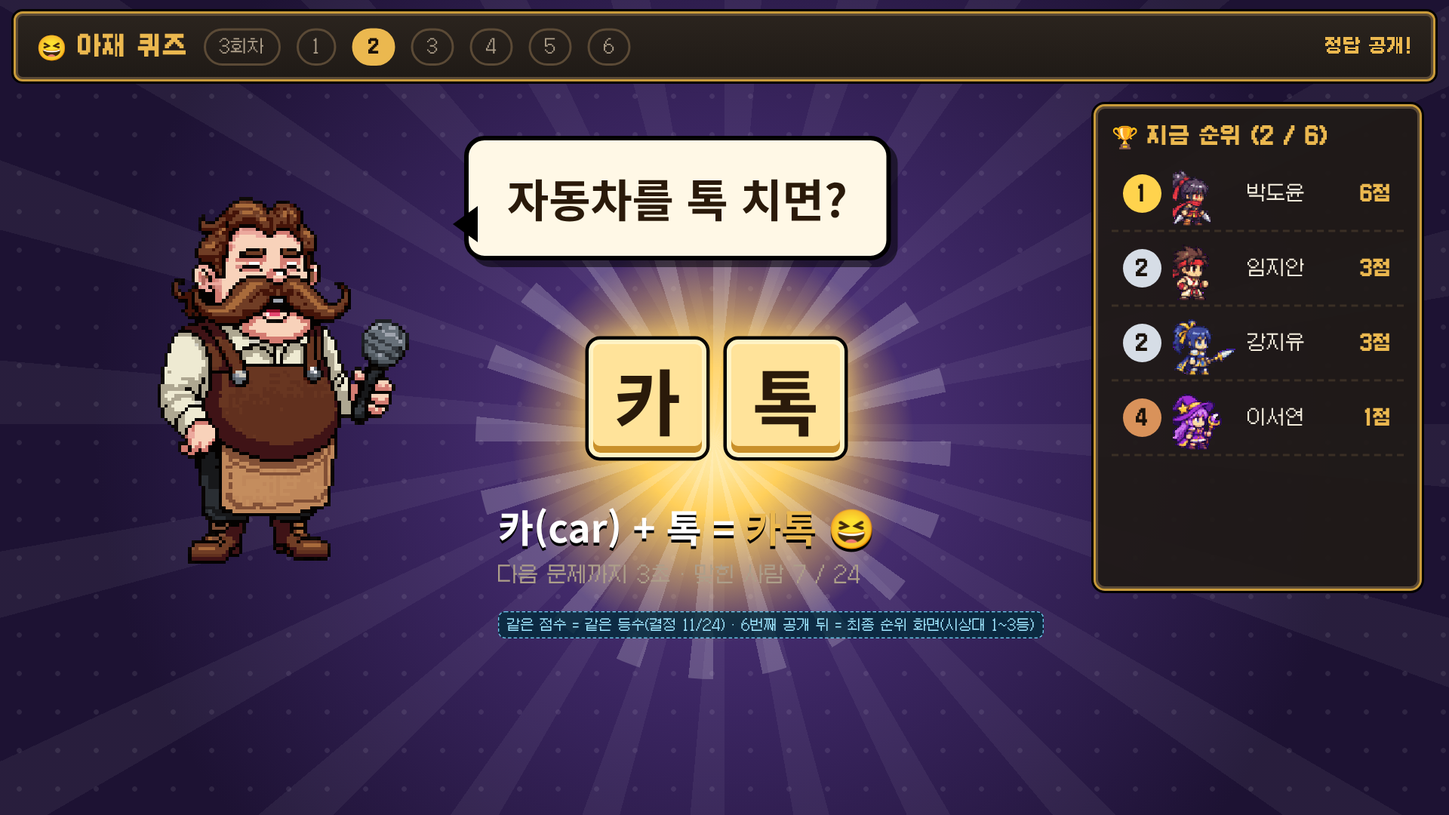
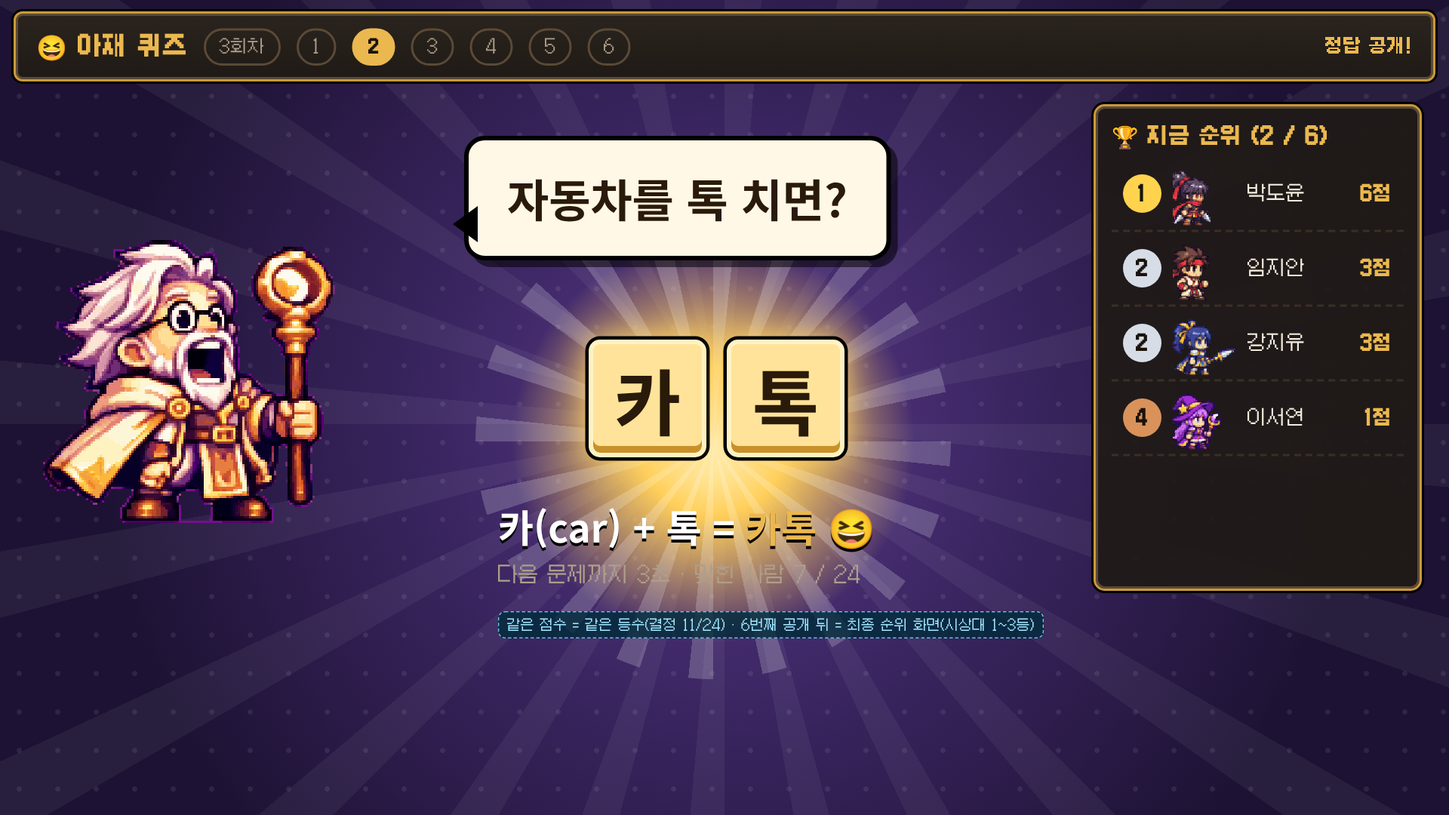
🎨 쉼터 놀이 시안 v2: 진행자 = 현자(PixelLab 동작 3줄) · 알까기 판 · 알 크게 + 이름 · 폰 따라가기 창 + 확대 · 새 값 제안 (11/24)
Claude-Session: https://claude.ai/code/session_014JJv1ioE1uuu1uLzo26R9z

Changed region(s): [[0.0312, 0.2444, 0.2812, 0.7028]]

diff --git a/docs/handoff/minigame-mock/mock.html b/docs/handoff/minigame-mock/mock.html
@@ -92,7 +92,7 @@ S['ajae-tv-1'] = () => `<div class="screen tv"><div class="rays"></div><div clas
  <div class="topbar"><span class="t">😆 아재 퀴즈</span><span class="pill">3회차</span>
   ${[1,2,3,4,5,6].map(n=>`<span class="pill ${n===2?'on':''}">${n}</span>`).join('')}
   <span class="sp"></span><span style="color:var(--muted)">참가 24명</span><div class="ring" style="--p:56%;width:50px;height:50px;font-size:22px"><span>17</span></div></div>
- <img class="host" src="../assets/minigame/ajae-host-talk-v1.png" style="left:40px;top:150px;width:384px;height:384px">
+ <img class="host" src="sage-host-talk.png" style="left:-90px;top:190px;width:512px;height:288px">
  <div class="bubble" style="left:410px;top:150px;font-size:54px;">자동차를 톡 치면?</div>
  <div class="blanks" style="left:520px;top:330px"><div class="blank">?</div><div class="blank">?</div></div>
  <div style="position:absolute;left:430px;top:458px;color:var(--muted);font-size:18px">폰에서 글자를 골라 맞혀요 · 2글자</div>
@@ -115,7 +115,7 @@ S['ajae-tv-2'] = () => `<div class="screen tv"><div class="rays"></div><div clas
   ${[1,2,3,4,5,6].map(n=>`<span class="pill ${n===2?'on':''}">${n}</span>`).join('')}
   <span class="sp"></span><span style="color:var(--gold);font-weight:700">정답 공개!</span></div>
  <div class="burst" style="left:420px;top:180px;width:420px;height:420px"></div>
- <img class="host" src="../assets/minigame/ajae-host-laugh-v1.png" style="left:40px;top:150px;width:384px;height:384px">
+ <img class="host" src="sage-host-laugh.png" style="left:-90px;top:190px;width:512px;height:288px">
  <div class="bubble" style="left:410px;top:120px;font-size:40px;">자동차를 톡 치면?</div>
  <div class="blanks" style="left:520px;top:300px"><div class="blank fill">카</div><div class="blank fill">톡</div></div>
  <div class="why" style="left:440px;top:440px;font-size:34px">카(car) + 톡 = <span style="color:var(--gold)">카톡</span> 😆</div>
@@ -137,7 +137,7 @@ S['ajae-ph-1'] = () => `<div class="screen ph"><div class="rays"></div><div clas
   <b style="color:var(--gold)">😆 아재 퀴즈</b><span class="pill on" style="font-size:13px">2 / 6</span><span class="sp"></span>
   <div class="ring" style="--p:56%;width:44px;height:44px;font-size:18px"><span>17</span></div></div>
  <div style="position:absolute;left:14px;right:14px;top:78px;display:flex;align-items:flex-end;gap:6px">
-  <img src="../assets/minigame/ajae-host-talk-v1.png" style="width:110px;height:110px;image-rendering:pixelated;margin-bottom:-8px">
+  <div style="width:112px;height:90px;overflow:hidden;flex:none;margin-bottom:-6px"><img src="sage-host-talk.png" style="width:256px;height:144px;margin:-50px 0 0 -62px;image-rendering:pixelated"></div>
   <div class="bubble" style="position:relative;font-size:24px;padding:14px 16px;flex:1;border-width:3px">자동차를 톡 치면?</div></div>
  <div class="blanks" style="left:50%;transform:translateX(-50%);top:226px;gap:14px"><div class="blank fill" style="width:84px;height:84px;font-size:48px;box-shadow:0 0 0 3px #000">카</div><div class="blank" style="width:84px;height:84px;font-size:48px">□</div></div>
  <div style="position:absolute;left:0;right:0;top:322px;text-align:center;color:var(--muted);font-size:14px">글자를 눌러 빈칸을 채우면 바로 확인!</div>
@@ -163,79 +163,102 @@ S['ajae-ph-2'] = () => `<div class="screen ph"><div class="rays"></div><div clas
  <div class="note" style="left:16px;top:520px">틀린 글자 조합 = 빈칸 흔들림 + 칩 돌려줌(벌 없음 · 30초 안에 다시)</div>
 </div>`;
 
-// 알까기 판 배치
-function alkPieces(cx, cy, R, d, meIdx, opt={}) {
-  const pts = [[.0,.0],[.32,-.2],[-.3,.25],[.55,.35],[-.58,-.3],[.15,.6],[-.15,-.62],[.68,-.35],[-.7,.18],[.4,.05],[-.35,-.05],[.05,.32],[.25,-.48],[-.48,.52],[.62,.62],[-.05,-.3]];
-  return pts.map(([x,y],i)=>{
-    let cls = i===meIdx?'me':''; if (i===opt.ghost) cls+=' ghost';
-    const ring = ['#ff6b6b','#6cc6ea','#9be07a','#c69cff','#ffd36a','#ff9fd1','#fff'][i%7];
-    return egg(i, cx+x*R, cy+y*R, d, cls, ring) + (i===opt.crown?`<div class="crown" style="left:${cx+x*R}px;top:${cy+y*R-d/2+4}px">👑</div>`:'') + (opt.names?`<div class="lbl" style="left:${cx+x*R}px;top:${cy+y*R+d/2+2}px">${NM[i]}</div>`:'');
-  }).join('');
+// ───────── 🥏 알까기 v2 (11/24 선생님 피드백: 판 크게 · 알 크게 + 이름 · TV = 판 전체 · 폰 = 내 알 따라가는 창 + 확대 · 축소)
+// 판 단위: 알 반지름 0.9 (설계 v1 0.7 → 0.9 제안) · 판 반지름 = max(5.5, 2 + 1.2√n) 그대로 · 28명 = 8.3
+const N28 = 28, BR = Math.max(5.5, 2 + 1.2 * Math.sqrt(N28)), ER = 0.9;
+const NM2 = NM.concat(['정하율','문가온','배서윤','고은찬']);
+const ALK = (() => { let s = 7; const rnd = () => (s = (s * 16807) % 2147483647) / 2147483647; const P = [[-3.2, 2.2]];
+  while (P.length < N28) { const a = rnd() * 6.283, r = Math.sqrt(rnd()) * (BR - 1.3), x = Math.cos(a) * r, y = Math.sin(a) * r;
+    if (P.every(([u, v]) => Math.hypot(u - x, v - y) > 2 * ER + 0.35)) P.push([x, y]); } return P; })();
+const ME = 0, CROWN = 5, GHOST = 11, RINGS = ['#ff6b6b','#6cc6ea','#9be07a','#c69cff','#ffd36a','#ff9fd1','#ffffff'];
+// sc = 화면 px / 판 단위 · (ox, oy) = 판 가운데가 놓일 화면 자리
+function alkDraw(ox, oy, sc, o = {}) {
+  let h = `<img class="board" src="../assets/minigame/alk-board-v1.png" style="left:${ox - BR * sc * 1.06}px;top:${oy - BR * sc * 1.06}px;width:${BR * sc * 2.12}px;height:${BR * sc * 2.12}px;${o.dim ? 'filter:brightness(.55)' : ''}">`;
+  const d = 2 * ER * sc;
+  ALK.forEach(([x, y], i) => {
+    if (i === o.skip) return;
+    const X = ox + x * sc, Y = oy + y * sc;
+    if (o.clip && (X < -d || X > o.clip[0] + d || Y < o.clip[1] - d || Y > o.clip[2] + d)) return;
+    let cls = i === ME ? 'me' : ''; if (i === GHOST) cls += ' ghost';
+    h += egg(i, X, Y, d, cls, RINGS[i % 7]);
+    if (i === CROWN) h += `<div class="crown" style="left:${X}px;top:${Y - d / 2 + 6}px;font-size:${Math.max(16, d * .38)}px">👑</div>`;
+    if (o.names !== false) h += `<div class="lbl" style="left:${X}px;top:${Y + d / 2 - 2}px;font-size:${o.fs || 12}px;${i === ME ? 'background:#ebb84f;color:#1a120a;font-weight:700' : ''}">${i === ME ? '나' : NM2[i]}</div>`;
+  });
+  return h;
 }
-
-// ───────── 🥏 알까기 · TV
-S['alk-tv'] = () => { const cx=470, cy=388, R=255; return `<div class="screen tv"><div class="abyss"></div>
- <div class="topbar"><span class="t">🥏 알까기 난장판</span><span class="pill">참가 16명</span><span class="pill">2 / 3판(보상)</span><span class="sp"></span>
+S['alk-tv'] = () => { const sc = 316 / (BR * 1.06), ox = 450, oy = 400; return `<div class="screen tv"><div class="abyss"></div>
+ <div class="topbar"><span class="t">🥏 알까기 난장판</span><span class="pill">참가 28명</span><span class="sp"></span>
   <span style="font-size:15px;color:var(--muted)">남은 시간</span><b style="font-size:30px;color:var(--gold)">1:23</b></div>
- <img class="board" src="../assets/minigame/alk-board-v1.png" style="left:${cx-300}px;top:${cy-300}px;width:600px;height:600px">
- ${alkPieces(cx, cy, R, 52, -1, {crown:3, ghost:10, names:true})}
- ${egg(14, cx+330, cy+190, 52, 'fall', '#ff6b6b')}
- <div class="lbl" style="left:${cx+330}px;top:${cy+214}px;color:#ff9a9a">💨 떨어짐!</div>
- <div style="position:absolute;left:${cx+180}px;top:${cy+110}px;width:120px;height:4px;background:repeating-linear-gradient(90deg,#fff8 0 8px,#0000 8px 14px);transform:rotate(28deg);transform-origin:left"></div>
- <div class="box" style="position:absolute;right:24px;top:92px;width:330px;height:310px;padding:14px">
+ ${alkDraw(ox, oy, sc, { fs: 12 })}
+ ${egg(14, ox + (BR + .9) * sc * .72, oy + (BR + .9) * sc * .7, 2 * ER * sc, 'fall', '#ff6b6b')}
+ <div class="lbl" style="left:${ox + (BR + .9) * sc * .72}px;top:${oy + (BR + .9) * sc * .7 + 22}px;color:#ff9a9a">💨 ${NM2[14]} 떨어짐!</div>
+ <div class="box" style="position:absolute;right:20px;top:88px;width:330px;height:340px;padding:14px">
   <div style="font-weight:700;color:var(--gold);font-size:19px;margin-bottom:4px">🏆 점수</div>
   <ul class="rank">
-   <li style="height:56px"><span class="no n1">1</span><div class="hmini">${hero(3)}</div><div>${NM[3]} 👑</div><span class="pt">14</span></li>
-   <li style="height:56px"><span class="no n2">2</span><div class="hmini">${hero(7)}</div><div>${NM[7]}</div><span class="pt">11</span></li>
-   <li style="height:56px"><span class="no n3">3</span><div class="hmini">${hero(1)}</div><div>${NM[1]}</div><span class="pt">9</span></li>
-   <li style="height:56px"><span class="no nx">4</span><div class="hmini">${hero(12)}</div><div>${NM[12]}</div><span class="pt">8</span></li>
+   <li style="height:58px"><span class="no n1">1</span><div class="hmini">${hero(CROWN)}</div><div>${NM2[CROWN]} 👑</div><span class="pt">14</span></li>
+   <li style="height:58px"><span class="no n2">2</span><div class="hmini">${hero(7)}</div><div>${NM2[7]}</div><span class="pt">11</span></li>
+   <li style="height:58px"><span class="no n3">3</span><div class="hmini">${hero(1)}</div><div>${NM2[1]}</div><span class="pt">9</span></li>
+   <li style="height:58px"><span class="no nx">4</span><div class="hmini">${hero(12)}</div><div>${NM2[12]}</div><span class="pt">8</span></li>
   </ul></div>
- <div class="box feed" style="position:absolute;right:24px;top:416px;width:330px;height:200px;padding:12px 14px">
+ <div class="box feed" style="position:absolute;right:20px;top:442px;width:330px;height:190px;padding:12px 14px">
   <div style="font-weight:700;color:var(--gold);font-size:17px;margin-bottom:2px">📣 방금</div>
-  <div><b>${NM[7]}</b> → ${NM[14]} 떨어뜨림 <b>+3</b></div>
-  <div><b>${NM[1]}</b> → ${NM[5]} 맞힘 <b>+1</b></div>
-  <div><b>${NM[12]}</b> → 👑 ${NM[3]}? 아깝다!</div>
-  <div style="color:var(--muted)">${NM[10]} 되살아남(무적 2초)</div></div>
- <div class="note" style="left:20px;bottom:18px">판 = 스킬로 만든 나무 원판(alk-board-v1) · 알 = 장착 용사 머리 · 테두리 색 = 사람마다 · 반투명 점선 = 되살아난 무적 · 👑 = 지금 1등(+5)</div>
+  <div><b>${NM2[7]}</b> → ${NM2[14]} 떨어뜨림 <b>+3</b></div>
+  <div><b>${NM2[1]}</b> → ${NM2[20]} 맞힘 <b>+1</b></div>
+  <div style="color:var(--muted)">${NM2[GHOST]} 되살아남(무적 2초)</div></div>
+ <div class="note" style="left:${ox + BR * sc + 40}px;bottom:16px;max-width:330px">28명 판 전체 = 한 화면 · 알 지름 ${Math.round(2 * ER * sc)}px · 이름표 = 알 아래</div>
 </div>`; };
-
-// ───────── 🥏 알까기 · 폰 ① 당겨서 조준
-S['alk-ph-1'] = () => { const cx=195, cy=470, R=158, me=0; const mx=cx, my=cy; return `<div class="screen ph"><div class="abyss"></div>
- <div style="position:absolute;left:10px;right:10px;top:10px;height:52px;display:flex;align-items:center;gap:8px;padding:0 12px" class="box">
-  <b style="color:var(--gold)">🥏 알까기</b><span class="sp"></span><span style="color:var(--muted);font-size:13px">남은</span><b style="color:var(--gold);font-size:20px">1:23</b></div>
- <div class="box" style="position:absolute;left:10px;right:10px;top:70px;height:40px;display:flex;align-items:center;gap:10px;padding:0 12px;font-size:14px">
-  <span>내 점수 <b style="color:var(--gold)">6</b></span><span style="color:var(--muted)">· 5등</span><span class="sp"></span><span style="font-size:12px;color:var(--muted)">1등 ${NM[3]} 14 👑</span></div>
- <img class="board" src="../assets/minigame/alk-board-v1.png" style="left:${cx-188}px;top:${cy-188}px;width:376px;height:376px">
- ${alkPieces(cx, cy, R, 34, me, {crown:3, ghost:10})}
+// 폰: 내 알을 가운데 두는 창(카메라) · 창 밖 알 = 가장자리 화살표 + 이름
+function edgeMarks(ox, oy, sc, W, top, bot) {
+  const cx = W / 2, cy = (top + bot) / 2; let h = '';
+  ALK.forEach(([x, y], i) => { const X = ox + x * sc, Y = oy + y * sc, rr = ER * sc * .6; if (X > -rr && X < W + rr && Y > top - rr && Y < bot + rr) return;
+    const dx = X - cx, dy = Y - cy, k = Math.min((W / 2 - 22) / Math.abs(dx || 1e-6), ((bot - top) / 2 - 22) / Math.abs(dy || 1e-6));
+    const ex = cx + dx * k, ey = cy + dy * k, ang = Math.atan2(dy, dx) * 180 / Math.PI;
+    h += `<div style="position:absolute;left:${ex}px;top:${ey}px;transform:translate(-50%,-50%);display:flex;flex-direction:column;align-items:center;gap:1px">
+      <div style="width:0;height:0;border:8px solid transparent;border-left:13px solid ${i === CROWN ? '#ffd36a' : '#ffffffcc'};transform:rotate(${ang}deg)"></div>
+      <div style="font-size:10px;background:#000b;padding:0 4px;border-radius:3px;white-space:nowrap">${i === CROWN ? '👑' : ''}${NM2[i]}</div></div>`; });
+  return h;
+}
+const zoomUI = (z) => `<div style="position:absolute;left:10px;top:${z.top}px;display:flex;flex-direction:column;gap:8px;z-index:3">
+  <div class="btn dark" style="width:48px;height:48px;font-size:22px">＋</div><div class="btn dark" style="width:48px;height:48px;font-size:22px">－</div>
+  <div class="btn ${z.all ? 'gold' : 'dark'}" style="width:48px;height:48px;font-size:12px;line-height:1.1;text-align:center">⛶<br>전체</div></div>`;
+const phTop = (t) => `<div style="position:absolute;left:10px;right:10px;top:10px;height:52px;display:flex;align-items:center;gap:8px;padding:0 12px;z-index:3" class="box">
+  <b style="color:var(--gold)">🥏 알까기</b><span style="font-size:13px">내 점수 <b style="color:var(--gold)">6</b> · 5등</span><span class="sp"></span><span style="color:var(--muted);font-size:13px">남은</span><b style="color:var(--gold);font-size:20px">${t}</b></div>`;
+S['alk-ph-1'] = () => { const sc = 33, [mx, my] = ALK[ME], cxu = mx * .6, cyu = my * .6, ox = 195 - cxu * sc, oy = 470 - cyu * sc, top = 70, bot = 790, MX = ox + mx * sc, MY = oy + my * sc;
+  const tgt = ALK.map((p, i) => [p, i]).filter(([p, i]) => i !== ME).sort((a, b) => Math.hypot(a[0][0] - mx - 1.5, a[0][1] - my + 2.2) - Math.hypot(b[0][0] - mx - 1.5, b[0][1] - my + 2.2))[0];
+  const tx = ox + tgt[0][0] * sc, ty = oy + tgt[0][1] * sc, ang = Math.atan2(ty - MY, tx - MX);
+  return `<div class="screen ph"><div class="abyss"></div>
+ ${alkDraw(ox, oy, sc, { fs: 11 })}
  <svg style="position:absolute;left:0;top:0" width="390" height="844">
-  <line x1="${mx}" y1="${my}" x2="${mx-36}" y2="${my+70}" stroke="#ebb84f" stroke-width="5" stroke-linecap="round"/>
-  <circle cx="${mx-36}" cy="${my+70}" r="14" fill="#ebb84f55" stroke="#ebb84f" stroke-width="3"/>
-  <line x1="${mx}" y1="${my}" x2="${cx+0.32*R}" y2="${cy-0.2*R}" stroke="#fff" stroke-width="3" stroke-dasharray="6 6"/>
-  <line x1="${cx+0.32*R}" y1="${cy-0.2*R}" x2="${cx+0.32*R+70}" y2="${cy-0.2*R-45}" stroke="#ff5a6e" stroke-width="3" stroke-dasharray="6 6"/>
-  <polygon points="${cx+0.32*R+70},${cy-0.2*R-45} ${cx+0.32*R+54},${cy-0.2*R-44} ${cx+0.32*R+64},${cy-0.2*R-31}" fill="#ff5a6e"/>
+  <line x1="${MX}" y1="${MY}" x2="${MX - Math.cos(ang) * 80}" y2="${MY - Math.sin(ang) * 80}" stroke="#ebb84f" stroke-width="5" stroke-linecap="round"/>
+  <circle cx="${MX - Math.cos(ang) * 80}" cy="${MY - Math.sin(ang) * 80}" r="16" fill="#ebb84f55" stroke="#ebb84f" stroke-width="3"/>
+  <line x1="${MX}" y1="${MY}" x2="${tx - Math.cos(ang) * 30}" y2="${ty - Math.sin(ang) * 30}" stroke="#fff" stroke-width="3" stroke-dasharray="6 6"/>
+  <line x1="${tx}" y1="${ty}" x2="${tx + Math.cos(ang - .35) * 110}" y2="${ty + Math.sin(ang - .35) * 110}" stroke="#ff5a6e" stroke-width="3" stroke-dasharray="6 6"/>
  </svg>
- <div class="lbl" style="left:${cx+0.32*R+60}px;top:${cy-0.2*R-80}px;color:#ff9aa6;font-size:13px">이대로면 떨어짐!</div>
- <div class="box" style="position:absolute;left:12px;right:12px;bottom:92px;padding:10px 12px;display:flex;align-items:center;gap:10px;font-size:15px">
-  <span>세기</span><div style="display:flex;gap:4px">${[1,1,0].map(v=>`<div style="width:34px;height:14px;border:2px solid #000;background:${v?'#ebb84f':'#3a2f25'}"></div>`).join('')}</div><b style="color:var(--gold)">중</b><span class="sp"></span><span style="color:var(--muted);font-size:13px">놓으면 발사</span></div>
- <div style="position:absolute;left:12px;right:12px;bottom:22px;text-align:center;color:var(--muted);font-size:13px">내 알(금테)을 누르고 뒤로 당겼다 놓아요<br>쏘면 4초 쉬어요 — 그동안 맞으면 밀려요</div>
- <div class="note" style="left:12px;top:118px">점선 = 내 폰에만 · 첫 부딪힘 알 + 밀려갈 방향 · 판 밖이면 빨강</div>
+ <div class="lbl" style="left:${tx + Math.cos(ang - .35) * 110}px;top:${ty + Math.sin(ang - .35) * 110 - 24}px;color:#ff9aa6;font-size:12px">이대로면 떨어짐!</div>
+ ${edgeMarks(ox, oy, sc, 390, top, bot)}
+ ${phTop('1:23')}
+ ${zoomUI({ top: 560 })}
+ <div class="box" style="position:absolute;left:12px;right:12px;bottom:14px;padding:8px 12px;display:flex;align-items:center;gap:10px;font-size:14px;z-index:3">
+  <span>세기</span><div style="display:flex;gap:4px">${[1,1,0].map(v=>`<div style="width:30px;height:12px;border:2px solid #000;background:${v?'#ebb84f':'#3a2f25'}"></div>`).join('')}</div><b style="color:var(--gold)">중</b><span class="sp"></span><span style="color:var(--muted);font-size:12px">놓으면 발사 · 쏘면 4초 쉼</span></div>
+ <div class="note" style="left:12px;top:72px;z-index:4">창 = 내 알을 따라감(판 쪽으로 조금 당겨 빈 하늘을 덜 보임 · 판의 약 65%) · 창 밖 알 = 가장자리 화살표 + 이름 · 두 손가락 = 판만 확대 · 축소</div>
 </div>`; };
-
-// ───────── 🥏 알까기 · 폰 ② 쿨타임 + 떨어짐
-S['alk-ph-2'] = () => { const cx=195, cy=470, R=158; return `<div class="screen ph"><div class="abyss"></div>
- <div style="position:absolute;left:10px;right:10px;top:10px;height:52px;display:flex;align-items:center;gap:8px;padding:0 12px" class="box">
-  <b style="color:var(--gold)">🥏 알까기</b><span class="sp"></span><span style="color:var(--muted);font-size:13px">남은</span><b style="color:var(--gold);font-size:20px">1:19</b></div>
- <img class="board" src="../assets/minigame/alk-board-v1.png" style="left:${cx-188}px;top:${cy-188}px;width:376px;height:376px;filter:brightness(.55)">
- ${alkPieces(cx, cy, R, 34, -1, {crown:3, ghost:10})}
+S['alk-ph-2'] = () => { const sc = 390 / (BR * 2.25), ox = 195, oy = 430; return `<div class="screen ph"><div class="abyss"></div>
+ ${alkDraw(ox, oy, sc, { fs: 9 })}
+ ${phTop('1:21')}
+ ${zoomUI({ top: 620, all: true })}
+ <div class="toast" style="top:680px;left:70px;right:12px;background:#1f1a16ee;color:var(--text);border-color:#c99a3a;font-size:14px;padding:10px">⛶ 전체 보기 · 내 알을 누르면 다시 따라가기</div>
+ <div class="note" style="left:12px;top:72px;z-index:4">「⛶ 전체」 = 판 전체(알이 작아짐 · 이름 작게) · 조준은 따라가기 창에서 권장</div>
+</div>`; };
+S['alk-ph-3'] = () => { const sc = 33, [mx, my] = ALK[ME], ox = 195 - mx * .6 * sc, oy = 470 - my * .6 * sc; return `<div class="screen ph"><div class="abyss"></div>
+ ${alkDraw(ox, oy, sc, { fs: 11, dim: true, skip: ME })}
  <div style="position:absolute;inset:0;background:#0008"></div>
- <div style="position:absolute;left:0;right:0;top:300px;text-align:center">
+ ${phTop('1:19')}
+ <div style="position:absolute;left:0;right:0;top:330px;text-align:center">
   <div style="font-size:20px;color:#ff9aa6;font-weight:700">💨 떨어졌어요!</div>
   <div style="font-size:96px;font-weight:700;color:#fff;text-shadow:0 6px 0 #000;line-height:1.2">2</div>
-  <div style="font-size:15px">${NM[7]} 이(가) 밀었어요</div>
+  <div style="font-size:15px">${NM2[7]} 이(가) 밀었어요</div>
   <div style="font-size:13px;color:var(--muted);margin-top:6px">돌아오면 2초 무적 · 점수는 그대로</div></div>
- <div class="box" style="position:absolute;left:12px;right:12px;bottom:22px;padding:10px 12px;display:flex;align-items:center;gap:10px;font-size:15px">
-  <div class="hmini">${hero(0)}</div><div>내 점수 <b style="color:var(--gold)">6</b><div style="color:var(--muted);font-size:13px">떨어뜨림 1 · 맞힘 3</div></div></div>
- <div class="note" style="left:12px;top:76px">떨어짐 = 판 어둡게 + 3·2·1 · 누가 밀었는지 한 줄</div>
+ <div class="note" style="left:12px;top:72px">떨어짐 = 판 어둡게 + 3·2·1 · 먼지는 코드 효과(그림 주문 안 함)</div>
 </div>`; };
 
 const s = new URLSearchParams(location.search).get('s') || 'ajae-tv-1';

diff --git a/docs/handoff/minigame-mock/render.js b/docs/handoff/minigame-mock/render.js
@@ -1,6 +1,6 @@
 // 시안 찍기: node render.js  (playwright · 파일 열기)
 const { chromium } = require('playwright'); const path = require('path');
-const list = [['ajae-tv-1',1280,720],['ajae-tv-2',1280,720],['ajae-ph-1',390,844],['ajae-ph-2',390,844],['alk-tv',1280,720],['alk-ph-1',390,844],['alk-ph-2',390,844]];
+const list = [['ajae-tv-1',1280,720],['ajae-tv-2',1280,720],['ajae-ph-1',390,844],['ajae-ph-2',390,844],['alk-tv',1280,720],['alk-ph-1',390,844],['alk-ph-2',390,844],['alk-ph-3',390,844]];
 (async () => { const b = await chromium.launch(); 
   for (const [s,w,h] of list) { const p = await b.newPage({ viewport:{width:w,height:h}, deviceScaleFactor: w>500?1.5:2 });
     await p.goto('file://' + path.join(__dirname, 'mock.html') + '?s=' + s); await p.waitForTimeout(600);

diff --git a/docs/handoff/minigame-mock/README.md b/docs/handoff/minigame-mock/README.md
@@ -1,6 +1,6 @@
 # 🖼 쉼터 놀이 화면 시안 (🎨 에셋 방 2 · 2026-11-24 KST)
 
-화면 시안이지 최종 그림 아님. `mock.html?s=…` 하나에 7화면 · `node render.js` 로 다시 찍음. 글꼴 · 용사 · 색 = 지금 게임 것(Galmuri11 · DS Gothic · heroes v2c · 금테 상자 · 보라 빛살 배경). 파란 점선 상자 = 설명 메모(실제 화면엔 없음).
+화면 시안이지 최종 그림 아님. **v2 (11/24 선생님 피드백)**: 진행자 = 현자(sage-host-v1 시트 · 시안은 그 칸을 낱장으로 sage-host-*.png) · 알까기 판 · 알 크게 + 이름 · 폰 = 따라가기 창 + 확대 · 축소. `mock.html?s=…` 하나에 7화면 · `node render.js` 로 다시 찍음. 글꼴 · 용사 · 색 = 지금 게임 것(Galmuri11 · DS Gothic · heroes v2c · 금테 상자 · 보라 빛살 배경). 파란 점선 상자 = 설명 메모(실제 화면엔 없음).
 
 | 파일 | 화면 | 담은 것 |
 |---|---|---|
@@ -8,8 +8,31 @@
 | ajae-tv-2.png | 😆 TV · 정답 공개 5초 | 빈칸 채움 + 빛 · 풀이 한 줄(why) · 지금 순위(같은 점수 같은 등수) |
 | ajae-ph-1.png | 😆 폰 · 글자 고르기 | 문제 · 빈칸 · 글자 칩 8개(쓴 칩 어둡게) · 한 글자 지우기 · 내 점수 |
 | ajae-ph-2.png | 😆 폰 · 맞힘 | 「✔ 정답! 2등 +2」 · 공개까지 기다림 |
-| alk-tv.png | 🥏 TV | 나무 원판 · 알 16개(용사 머리 · 이름) · 👑 1등 알 · 반투명 = 무적 · 떨어지는 알 · 점수 4줄 · 📣 방금 한 일 |
-| alk-ph-1.png | 🥏 폰 · 조준 | 내 알 금테 · 당김 줄 · 점선 궤적 → 첫 부딪힘 알 → 밀려갈 방향(판 밖 = 빨강 「이대로면 떨어짐!」) · 세기 3칸 |
-| alk-ph-2.png | 🥏 폰 · 떨어짐 | 판 어둡게 · 3·2·1 · 누가 밀었는지 · 돌아오면 무적 2초 |
+| alk-tv.png | 🥏 TV · **v2** | **28명 판 전체 = 한 화면** · 알 지름 64px(얼굴 보임) · 알마다 이름표 · 👑 1등 알 · 반투명 = 무적 · 떨어지는 알 · 점수 4줄 · 📣 방금 |
+| alk-ph-1.png | 🥏 폰 · 따라가기 창 · 조준 | **내 알을 따라가는 창**(판 쪽으로 40% 당김 · 판의 약 65% 보임) · 알 지름 59px + 이름 · 창 밖 알 = 가장자리 ▶ + 이름 · 왼쪽 ＋ / － / ⛶ 전체 · 두 손가락 = 판만 확대 · 축소(페이지 확대는 그대로 막힘) · 당김 줄 · 점선 궤적 → 첫 부딪힘 알 → 빨강 「이대로면 떨어짐!」 · 세기 3칸 |
+| alk-ph-2.png | 🥏 폰 · ⛶ 전체 보기 | 판 전체(알 작게 · 이름 작게) · 「내 알을 누르면 다시 따라가기」 |
+| alk-ph-3.png | 🥏 폰 · 떨어짐 | 판 어둡게 · 3·2·1 · 누가 밀었는지 · 먼지 = 코드 효과 |
 
 시안에서 정한 척한 것(⏳ 선생님 · 손발 확인): 아재 폰 = 빈칸이 다 차면 바로 확인(「내기」 단추 없음) · 틀리면 빈칸 흔들림 + 칩 돌려줌 · TV 아래 참가 용사 줄.
+
+## 🥏 알까기 새 값 제안 (v2)
+
+| 값 | 설계 v1 | 제안 | 까닭 |
+|---|---|---|---|
+| 알 반지름(판 단위) | 0.7 | **0.9** | 얼굴이 보이게(28명 판 TV 알 지름 64px) |
+| 판 반지름 | max(5.5, 2 + 1.2√n) | **그대로** | 28명 = 8.3 → 판 : 알 = 9.3 : 1 |
+| TV 배율 | — | 판 지름 = 화면 높이 − 윗막대(≈ 630px · 1280×720 기준) | 판 전체 한 화면 |
+| 폰 배율(따라가기) | — | 알 지름 ≈ 59px(33px / 판 단위) · 창 = 내 알을 판 쪽으로 40% 당긴 자리 | 판의 약 65% · 빈 하늘 덜 보임 |
+| 폰 ⛶ 전체 | — | 판 지름 = 폰 폭 × 0.9 | 28명이면 알 지름 ≈ 37px |
+
+모의 실험(설계 방 sim.py · 봇 8판씩 · 같은 씨앗) — 알 0.7 → 0.9:
+
+| 인원 | 떨어뜨린 수 0.7 → 0.9 | 1등 점수 | 0점인 학생 | 혼자 떨어진 비율 |
+|---|---|---|---|---|
+| 4 | 7.4 → 10.4 | 12.1 → 13.8 | 0% → 0% | 9% → 9% |
+| 8 | 5.7 → 8.8 | 9.4 → 13.9 | 0% → 0% | 4% → 5% |
+| 12 | 4.2 → 6.9 | 8.1 → 11.4 | 0% → 0% | 3% → 1% |
+| 20 | 2.6 → 4.4 | 6.2 → 8.4 | 9% → 2% | 3% → 1% |
+| 28 | 1.9 → 3.5 | 5.9 → 7.2 | 15% → 2% | 1% → 1% |
+
+→ 알이 커지면 부딪히기 쉬워 **0점 학생이 15% → 2%**(28명) · 4 ~ 8명 판은 꽤 정신없어짐(한 사람 150초에 9 ~ 10번 떨어뜨림). 4 ~ 8명이 너무 정신없으면 작은 판만 최소 반지름 5.5 → 6.5 로 키우는 길(⏳ 선생님 · 설계 방 확인).

diff --git a/docs/handoff/assets/minigame/README.md b/docs/handoff/assets/minigame/README.md
@@ -4,12 +4,12 @@ PixelLab(pixflux · 이 환경 연결 · 선생님이 말씀하신 「이미지 
 
 | 파일 | 크기 | 놀이 | 쓰는 곳 |
 |---|---|---|---|
-| ajae-host-talk-v1.png | 128 × 128 | 😆 아재 퀴즈 | 진행자 「아재」 — 문제 낼 때 (TV 왼쪽 크게 · 폰 말풍선 옆 작게) |
-| ajae-host-laugh-v1.png | 128 × 128 | 😆 아재 퀴즈 | 진행자 — 정답 공개 때(크게 웃음) · 두 장 번갈아 = 말하는 느낌 |
+| **sage-host-v1.png** | 1792 × 432 (칸 256 × 144 · 7칸 × 3줄) | 😆 아재 퀴즈 | **진행자 = 현자(올드윈 · 교사 용사)** (11/24 선생님) · 줄 ① 말하기(손짓 · 입) ② 크게 웃기(정답 공개) ③ 지팡이 높이 들기(문제 · 빛남) · 1칸째 = 현자 HD 대기 첫 칸 그대로(드라이브 hero-idle8-hd/hero-sage-idle8-v1) · PixelLab animate-with-text-v3 · 같은 크기 · 같은 발끝(y136) · 오른쪽 봄 |
+| ~~ajae-host-*-v1.png~~ | 128 × 128 | — | 콧수염 진행자 = **쓰지 않음**(현자로 바뀜 · 파일만 둠) |
 | rest-podium-v1.png | 192 × 128 | 쉼터 공통 | 최종 순위 시상대(1 · 2 · 3) — 아재 퀴즈 · 알까기 · 땅따먹기 결과 화면 |
 | alk-board-v1.png | 256 × 256 | 🥏 알까기 | 위에서 본 나무 원판(쇠테 · 금빛 고리) — 판 반지름은 코드가 인원에 맞춰 키움 |
 | land-flag-white-v1.png | 64 × 64 | 🏁 땅따먹기 | 흰 깃발 1장 → 코드가 팀 색 4개(붉은 · 푸른 · 금빛 · 초록)로 물들임(multiply) |
 | land-star-tile-v1.png | 64 × 64 | 🏁 땅따먹기 | ⭐ 별 칸 |
 
 새 그림 없이 되는 것(그림 주문 안 함): 아재 글자 칩 · 빈칸 = CSS · 알 = 장착 용사 머리 자르기 · 왕관 = 기존 아이콘 crown2 · 땅 칸 = 색 네모 · 메달 = medals-rank-v1.
-남은 주문(🎨 작업대 「🎮 쉼터 놀이」 탭): 알까기 떨어짐 효과 4칸 시트 — 움직임이라 선생님 생성기로.
+알까기 떨어짐 효과 = 코드 먼지(11/24 선생님 · mg-alk-fall 주문 안 뽑음).
